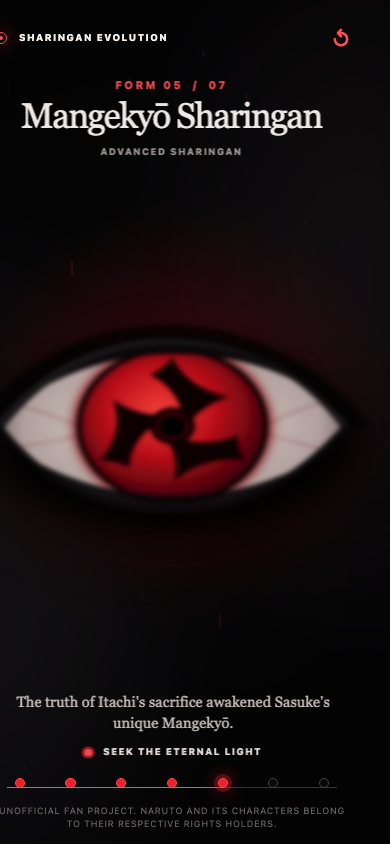
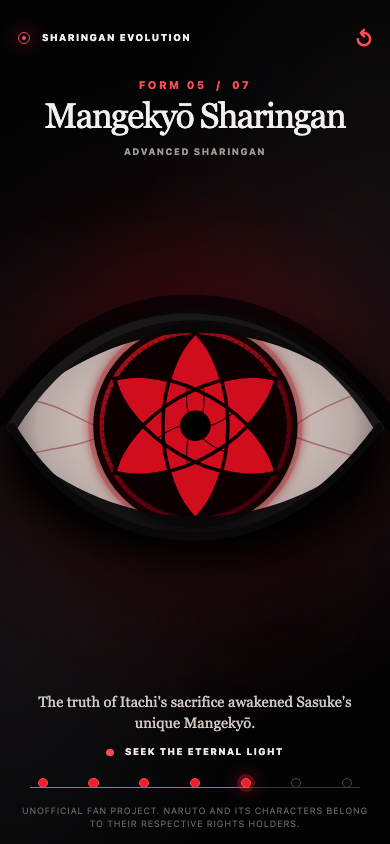
fix: redraw Sasuke Sharingan patterns

diff --git a/src/components/EyeArtwork.tsx b/src/components/EyeArtwork.tsx
@@ -4,14 +4,24 @@ interface EyeArtworkProps {
   stage: EyeStage;
 }
 
-const TOMOE_ANGLES = [0, 120, 240];
+const TOMOE_ANGLES = {
+  1: [0],
+  2: [0, 180],
+  3: [0, 120, 240],
+} as const;
 const RINNEGAN_TOMOE_ANGLES = [0, 60, 120, 180, 240, 300];
+const MANGEKYO_PETAL_ANGLES = [0, 60, 120, 180, 240, 300];
+const MANGEKYO_LENS_ANGLES = [0, 120, 240];
 
 function Tomoe({ angle, radius = 93 }: { angle: number; radius?: number }) {
   return (
-    <g transform={`rotate(${angle}) translate(0 ${-radius})`} className="tomoe-mark">
-      <circle cx="0" cy="0" r="13" />
-      <path d="M -2 11 C 13 18 26 8 28 -8 C 21 -1 14 1 8 -2 Z" />
+    <g
+      transform={`rotate(${angle}) translate(0 ${-radius})`}
+      className="tomoe-mark"
+      data-angle={angle}
+    >
+      <circle cx="0" cy="0" r="14" />
+      <path d="M -3 12 C 14 20 30 7 32 -12 C 23 -3 15 0 8 -4 C 9 3 5 9 -3 12 Z" />
     </g>
   );
 }
@@ -20,9 +30,40 @@ function TomoePattern({ count }: { count: 1 | 2 | 3 }) {
   return (
     <g className="tomoe-pattern">
       <circle className="iris-ring" r="91" />
-      {TOMOE_ANGLES.slice(0, count).map((angle) => (
+      {TOMOE_ANGLES[count].map((angle) => (
         <Tomoe key={angle} angle={angle} />
       ))}
+    </g>
+  );
+}
+
+function SasukeMangekyoFramework() {
+  return (
+    <g className="sasuke-mangekyo-framework">
+      <circle className="mangekyo-void" r="132" />
+
+      <g className="sasuke-mangekyo-petals">
+        {MANGEKYO_PETAL_ANGLES.map((angle) => (
+          <path
+            key={angle}
+            className="sasuke-mangekyo-petal"
+            data-shape="sasuke-mangekyo-petal"
+            transform={`rotate(${angle})`}
+            d="M 0 -132 C -23 -108 -42 -71 -43 -38 C -25 -31 -11 -21 0 -7 C 11 -21 25 -31 43 -38 C 42 -71 23 -108 0 -132 Z"
+          />
+        ))}
+      </g>
+
+      <g className="sasuke-mangekyo-lenses">
+        {MANGEKYO_LENS_ANGLES.map((angle) => (
+          <path
+            key={angle}
+            data-shape="sasuke-mangekyo-lens"
+            transform={`rotate(${angle})`}
+            d="M 47 0 C 47 61 24 112 0 136 C -24 112 -47 61 -47 0 C -47 -61 -24 -112 0 -136 C 24 -112 47 -61 47 0 Z"
+          />
+        ))}
+      </g>
     </g>
   );
 }
@@ -30,14 +71,7 @@ function TomoePattern({ count }: { count: 1 | 2 | 3 }) {
 function MangekyoPattern() {
   return (
     <g className="mangekyo-pattern">
-      {[0, 120, 240].map((angle) => (
-        <path
-          key={angle}
-          transform={`rotate(${angle})`}
-          d="M 0 -128 C 14 -91 45 -64 88 -54 C 54 -44 31 -19 16 12 C 20 -39 1 -72 -34 -96 C -20 -103 -9 -113 0 -128 Z"
-        />
-      ))}
-      <circle className="pattern-core" r="29" />
+      <SasukeMangekyoFramework />
     </g>
   );
 }
@@ -45,15 +79,19 @@ function MangekyoPattern() {
 function EternalMangekyoPattern() {
   return (
     <g className="eternal-pattern">
-      <circle className="outer-ring" r="116" />
-      {[0, 60, 120, 180, 240, 300].map((angle) => (
-        <path
-          key={angle}
-          transform={`rotate(${angle})`}
-          d="M 0 -126 C 9 -93 25 -66 47 -43 C 24 -49 3 -45 -18 -29 C -10 -61 -17 -91 -38 -117 C -23 -110 -10 -113 0 -126 Z"
-        />
-      ))}
-      <MangekyoPattern />
+      <SasukeMangekyoFramework />
+      <g className="itachi-inherited-pattern">
+        {MANGEKYO_LENS_ANGLES.map((angle) => (
+          <path
+            key={angle}
+            className="itachi-inherited-blade"
+            data-shape="itachi-inherited-blade"
+            transform={`rotate(${angle})`}
+            d="M -18 7 C -15 39 -10 82 0 112 C 10 82 15 39 18 7 L 0 -7 Z"
+          />
+        ))}
+      </g>
+      <circle className="eternal-core" r="22" />
     </g>
   );
 }
@@ -134,8 +172,12 @@ export function EyeArtwork({ stage }: EyeArtworkProps) {
           {stage.kind === 'eternal-mangekyo' && <EternalMangekyoPattern />}
           {stage.kind === 'rinnegan' && <RinneganPattern />}
 
-          <circle className="pupil" r={stage.kind === 'dormant' ? 47 : 22} />
-          <ellipse className="iris-glint" cx="-45" cy="-53" rx="13" ry="24" />
+          {stage.kind !== 'eternal-mangekyo' && (
+            <circle className="pupil" r={stage.kind === 'dormant' ? 47 : 22} />
+          )}
+          {stage.kind !== 'mangekyo' && stage.kind !== 'eternal-mangekyo' && (
+            <ellipse className="iris-glint" cx="-45" cy="-53" rx="13" ry="24" />
+          )}
         </g>
 
         <path className="lid-shadow lid-shadow--top" d="M 35 232 C 140 66 251 41 325 52 C 451 61 542 145 607 234 C 508 137 417 105 320 106 C 210 106 128 156 35 232 Z" />

diff --git a/src/components/EyeArtwork.test.tsx b/src/components/EyeArtwork.test.tsx
@@ -1,0 +1,35 @@
+import { render } from '@testing-library/react';
+import { describe, expect, it } from 'vitest';
+import { SASUKE_STAGES } from '../stages';
+import { EyeArtwork } from './EyeArtwork';
+
+describe('base Sharingan artwork structure', () => {
+  it('places two tomoe opposite each other instead of inheriting three-tomoe spacing', () => {
+    const { container } = render(<EyeArtwork stage={SASUKE_STAGES[2]} />);
+
+    const angles = [...container.querySelectorAll('.tomoe-mark')].map((mark) =>
+      mark.getAttribute('data-angle'),
+    );
+    expect(angles).toEqual(['0', '180']);
+  });
+});
+
+describe('Sasuke Mangekyō artwork structure', () => {
+  it('renders the Mangekyō as six outer petals held by three overlapping lenses', () => {
+    const { container } = render(<EyeArtwork stage={SASUKE_STAGES[4]} />);
+
+    expect(container.querySelectorAll('[data-shape="sasuke-mangekyo-petal"]')).toHaveLength(6);
+    expect(container.querySelectorAll('[data-shape="sasuke-mangekyo-lens"]')).toHaveLength(3);
+    expect(container.querySelectorAll('[data-shape="itachi-inherited-blade"]')).toHaveLength(0);
+  });
+
+  it('adds Itachi’s three-blade overlay only for the Eternal Mangekyō', () => {
+    const { container } = render(<EyeArtwork stage={SASUKE_STAGES[5]} />);
+
+    expect(container.querySelectorAll('[data-shape="sasuke-mangekyo-petal"]')).toHaveLength(6);
+    expect(container.querySelectorAll('[data-shape="sasuke-mangekyo-lens"]')).toHaveLength(3);
+    expect(container.querySelectorAll('[data-shape="itachi-inherited-blade"]')).toHaveLength(3);
+    expect(container.querySelector('.eternal-core')).toBeInTheDocument();
+    expect(container.querySelector('.pupil')).not.toBeInTheDocument();
+  });
+});

diff --git a/tests/smoke.spec.ts b/tests/smoke.spec.ts
@@ -43,3 +43,20 @@ test('switches off continuous motion for reduced-motion users', async ({ browser
   await expect(page.locator('.chakra-particle').first()).toHaveCSS('display', 'none');
   await context.close();
 });
+
+test('renders Sasuke-specific Mangekyō and Eternal geometry in the browser', async ({ page }) => {
+  await page.goto('/');
+
+  for (let step = 0; step < 4; step += 1) {
+    await page.getByRole('button', { name: /current form/i }).click();
+  }
+
+  await expect(page.getByRole('heading', { name: 'Mangekyō Sharingan' })).toBeVisible();
+  await expect(page.locator('[data-shape="sasuke-mangekyo-petal"]')).toHaveCount(6);
+  await expect(page.locator('[data-shape="sasuke-mangekyo-lens"]')).toHaveCount(3);
+
+  await page.getByRole('button', { name: /seek the eternal light/i }).click();
+  await expect(page.getByRole('heading', { name: 'Eternal Mangekyō Sharingan' })).toBeVisible();
+  await expect(page.locator('[data-shape="itachi-inherited-blade"]')).toHaveCount(3);
+  await expect(page.locator('.eternal-core')).toBeVisible();
+});

diff --git a/src/styles.css b/src/styles.css
@@ -383,8 +383,7 @@ h1 {
 }
 
 .iris-ring,
-.rinnegan-pattern circle,
-.outer-ring {
+.rinnegan-pattern circle {
   fill: none;
   stroke: #150106;
   stroke-width: 7;
@@ -395,9 +394,7 @@ h1 {
   stroke-width: 5;
 }
 
-.tomoe-mark,
-.mangekyo-pattern,
-.eternal-pattern {
+.tomoe-mark {
   fill: #110106;
 }
 
@@ -405,14 +402,29 @@ h1 {
   fill: #24172f;
 }
 
-.pattern-core {
-  fill: #d51022;
-  stroke: #100105;
-  stroke-width: 11;
+.mangekyo-void {
+  fill: #090104;
 }
 
-.eternal-pattern .outer-ring {
+.sasuke-mangekyo-petal {
+  fill: #d0081c;
+  stroke: #150106;
+  stroke-width: 1.5;
+}
+
+.sasuke-mangekyo-lenses {
+  fill: none;
+  stroke: #090104;
+  stroke-linejoin: round;
   stroke-width: 5;
+}
+
+.itachi-inherited-blade {
+  fill: #090104;
+}
+
+.eternal-core {
+  fill: #d0081c;
 }
 
 .pupil {

diff --git a/artifacts/visual-proof/README.md b/artifacts/visual-proof/README.md
@@ -5,12 +5,19 @@ Captured from the feature branch in Chromium on August 24, 2026.
 ## Artifacts
 
 - `desktop-dormant.png` — 1440×1000 initial poster and awakening control.
+- `desktop-two-tomoe.png` — corrected 180° two-tomoe spacing.
+- `desktop-mangekyo.png` — corrected six-petal, three-lens Sasuke Mangekyō.
+- `desktop-eternal-mangekyo.png` — corrected Eternal form with the inherited three-blade overlay.
 - `desktop-rinnegan.png` — 1440×1000 complete sequence, unlocked navigation, and explicit Rinnegan distinction.
-- `mobile-mangekyo.png` — 390×844 phone layout after touch progression.
+- `mobile-mangekyo.png` — 390×844 corrected Mangekyō after touch progression.
+- `before-mangekyo.png` and `before-eternal-mangekyo.png` — the inaccurate generic-blade patterns preserved as regression evidence.
 
 ## Verification checklist
 
 - [x] The eye is the dominant full-canvas visual at desktop and phone sizes.
+- [x] Two tomoe sit opposite each other at 180°.
+- [x] Sasuke's Mangekyō uses six outer petals and three overlapping lens lines.
+- [x] Eternal Mangekyō preserves Sasuke's frame and adds Itachi's three-blade overlay.
 - [x] Mouse click and touch tap advance exactly one stage.
 - [x] `Enter`, `Space`, and arrow-key operation use semantic controls.
 - [x] Restart returns to the dormant eye while discovered-stage navigation remains available.

diff --git a/README.md b/README.md
@@ -60,8 +60,10 @@ Behavior coverage includes sequential progression, pointer and native keyboard a
 Review artifacts are in [`artifacts/visual-proof`](artifacts/visual-proof):
 
 - 1440×1000 dormant desktop poster
+- 1440×1000 corrected two-tomoe, Mangekyō, and Eternal Mangekyō states
 - 1440×1000 fully discovered Rinnegan state
-- 390×844 touch-sized Mangekyō state
+- 390×844 touch-sized corrected Mangekyō state
+- before-and-after evidence for the advanced-eye redraw
 - a concise written verification checklist
 
 ## Lore and IP boundary
